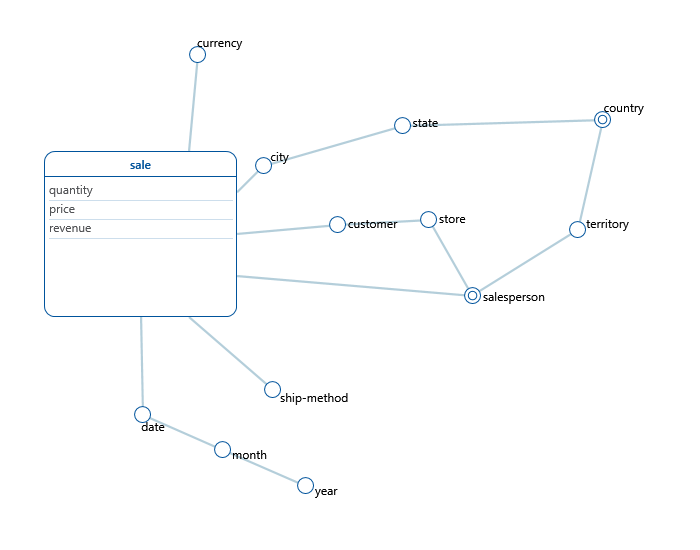
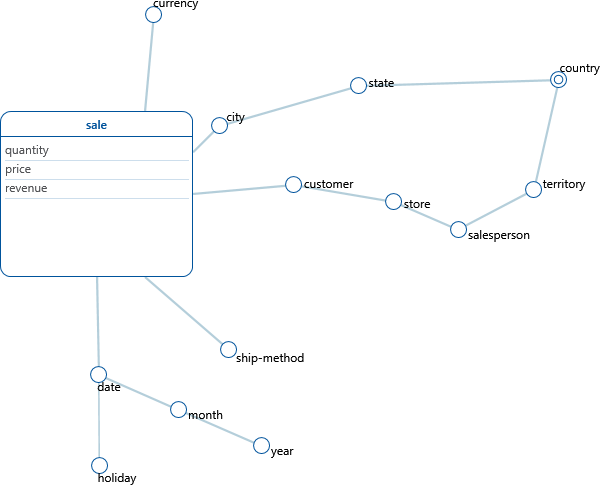
Removed salesperson from the fact dimensions.

diff --git a/README.md b/README.md
@@ -24,7 +24,7 @@ I started the process by analysing the ER schema (AdventureWorkdsDbDiagram) and 
 
 The Sale Fact most interesting measures are quantity, unit price and revenue.
 
-The most interesting dimension root I've found are Product, Customer, City and Date, Salesperson, Currency and Ship-method.
+The most interesting dimension root I've found are Product, Customer, City and Date, Currency and Ship-method.
 
 ![Sale fact schema](./images/saleFact.png "Sale fact schema")
 
@@ -38,9 +38,6 @@ Here I present an overview of the dimensions of the Sale fact:
         - category
 - ship-method
 - currency
-- salesperson
-    - territory
-        - country
 - customer
      - store
          - salesperson
@@ -54,17 +51,16 @@ Here I present an overview of the dimensions of the Sale fact:
         - year
     - holiday
 
-Customer and Salesperson share part of the dimension hierarchy.
-The same happens with SalesPerson, customer and city that share the country attribute.
+Customer and City share the country atribute.
 
 ---
 ##### Dynamicity
 
 Product and its categorization may be dynamic. There may be a change in how a product is classified but this should happen quite unfrequently.
 
-SalesPerson may move to a different territory and I expect this to be something to be careful about. I consider instead unlikely that a territory is assigned to a different country.
-
 Customer may move to a different store quite often and the store may be assigned to a different salesperson.
+
+SalesPerson may move to a different territory and I expect this to be something to be careful about. I consider instead unlikely that a territory is assigned to a different country.
 
 City, province and country are dimensions that I expect to have only a small chance to change.
 
@@ -197,18 +193,9 @@ The following table shows the cardinality of every dimension:
 | date            | 1126        |
 | shipping-method | 5           |
 | customer        | 19820       |
-| salesperson     | 7           |
 | currency        | 105         |
 | city            | 613         |
 
-The maximum cardinality for the Sale event is ~ 25 * 10^16
+The maximum cardinality for the Sale event is ~ 4 * 10^16
 
-The sparsity of the schema is 5 * 10^(-9).
-
-### ROLAP schema
-
-The sale fact becomes 
-
-### Views
-
-## 4 - OLAP Queries
+The sparsity of the schema is 3 * 10^(-11).
